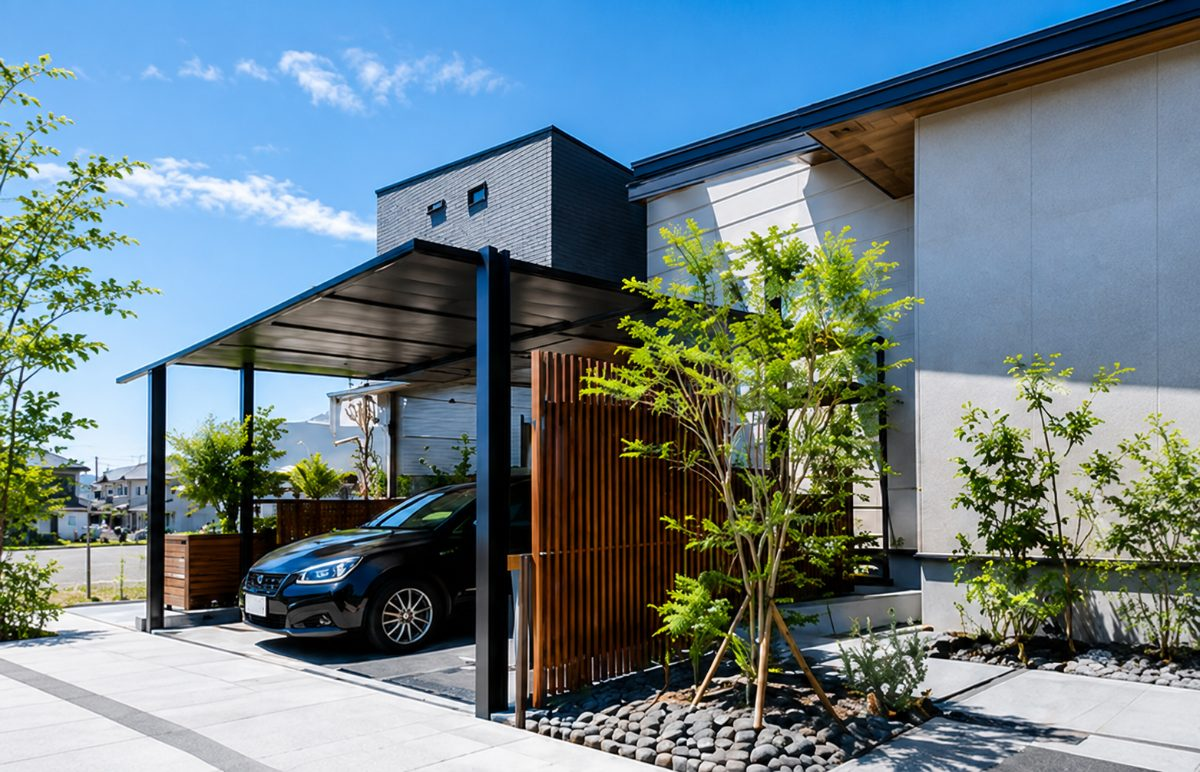
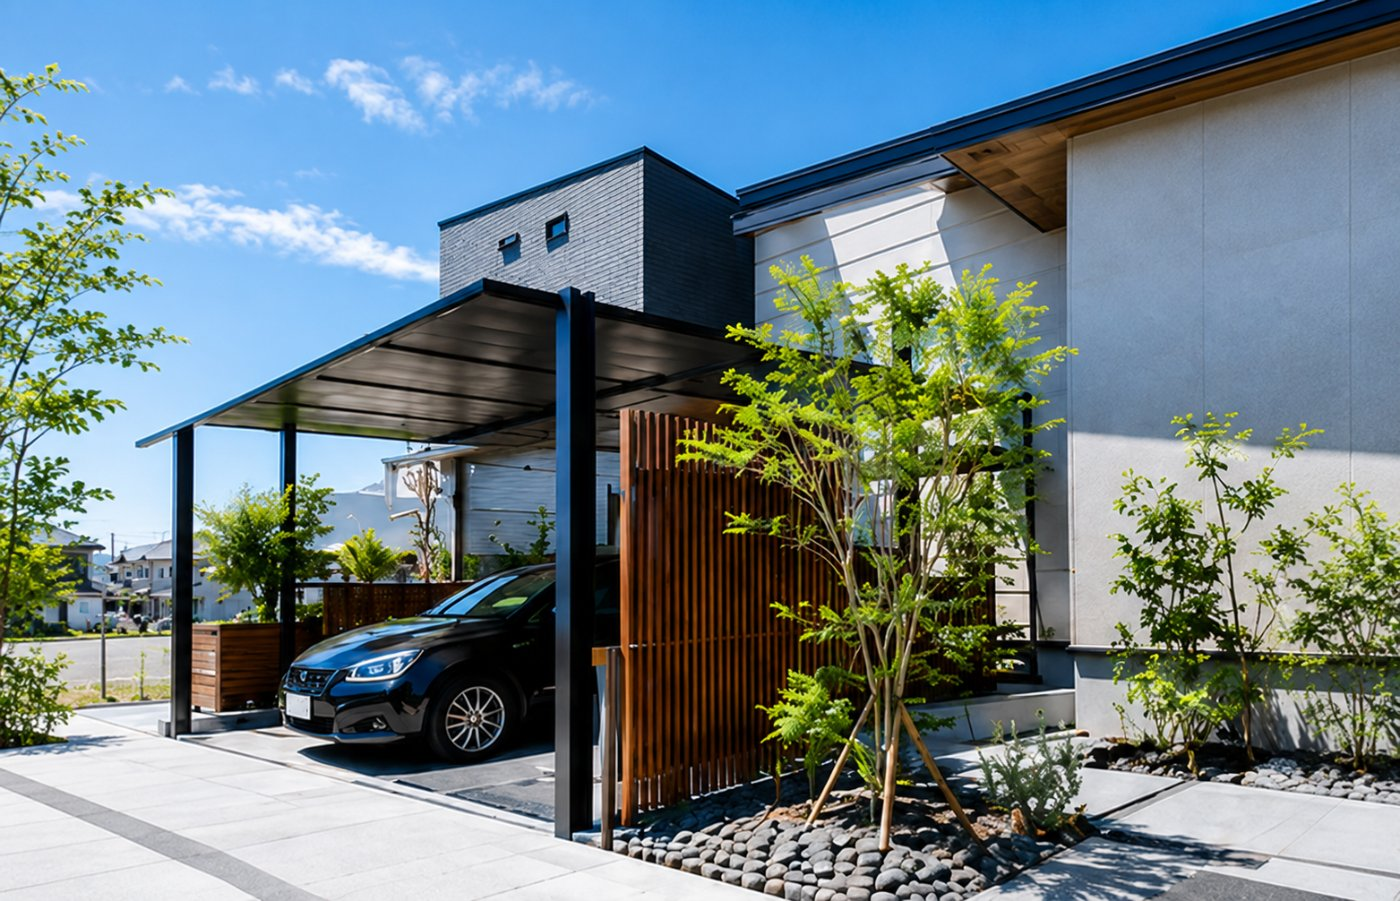
Add files via upload

diff --git a/index.html b/index.html
@@ -6,7 +6,6 @@
 <script src="./support.js"></script>
 </head>
 <body>
-<template id="__bundler_thumbnail"><svg xmlns="http://www.w3.org/2000/svg" viewBox="0 0 100 100"><rect width="100" height="100" fill="#EFE9F8"/><circle cx="50" cy="42" r="20" fill="#8E72C9"/><text x="50" y="50" font-size="22" font-family="sans-serif" font-weight="800" fill="#fff" text-anchor="middle">一</text><text x="50" y="82" font-size="12" font-family="sans-serif" font-weight="700" fill="#1F3A5C" text-anchor="middle">一蓮建設</text></svg></template>
 <x-dc>
 <helmet>
 <link rel="preconnect" href="https://fonts.googleapis.com">
@@ -38,6 +37,7 @@
   .reveal.in { opacity: 1; transform: none; }
   .svc-card:hover .svc-arrow { transform: translate(4px,-4px); }
   .svc-card:hover { transform: translateY(-6px); }
+  .voices-track::-webkit-scrollbar { display: none; width: 0; height: 0; }
 </style>
 </helmet>
 
@@ -123,12 +123,14 @@
 
       <div style="position:relative; align-self:center; padding:14px 0 66px;">
         <!-- window 1 (main) -->
-        <div style="position:relative; z-index:3; width:86%; margin-left:auto; border-radius:24px; overflow:hidden; box-shadow:0 26px 56px -22px rgba(31,58,92,.42); border:4px solid #fff; transform:rotate(1.8deg);">
-          <img src="./crew.jpg" alt="現場スタッフ" style="width:100%; aspect-ratio:4/3.8; object-fit:cover; object-position:50% 40%; display:block;">
+        <div style="position:relative; z-index:3; width:90%; margin-left:auto; aspect-ratio:1/1; border-radius:24px; overflow:hidden; box-shadow:0 26px 56px -22px rgba(31,58,92,.42); border:4px solid #fff; transform:rotate(1.8deg);">
+          <img ref="{{ frame1aRef }}" src="./gaikou1.jpg" alt="施工写真" style="position:absolute; inset:0; width:100%; height:100%; object-fit:cover; transition:opacity 1.1s ease; opacity:1;">
+          <img ref="{{ frame1bRef }}" src="./gaikou2.jpg" alt="施工写真" style="position:absolute; inset:0; width:100%; height:100%; object-fit:cover; transition:opacity 1.1s ease; opacity:0;">
         </div>
-        <!-- window 2 (overlap, bottom-left) -->
-        <div style="position:absolute; z-index:5; left:-7%; bottom:-8px; width:47%; border-radius:20px; overflow:hidden; box-shadow:0 22px 44px -18px rgba(31,58,92,.4); border:4px solid #fff; transform:rotate(-4.5deg);">
-          <img src="./hero-town.jpg" alt="まちの風景" style="width:100%; aspect-ratio:4/3.5; object-fit:cover; object-position:50% 56%; display:block;">
+        <!-- window 2 (front, overlap bottom-left) -->
+        <div style="position:absolute; z-index:5; left:-18%; bottom:-48px; width:60%; aspect-ratio:5/4; border-radius:20px; overflow:hidden; box-shadow:0 22px 44px -18px rgba(31,58,92,.4); border:4px solid #fff; transform:rotate(-4.5deg);">
+          <img ref="{{ frame2aRef }}" src="./gaikou5.jpg" alt="施工写真" style="position:absolute; inset:0; width:100%; height:100%; object-fit:cover; transition:opacity 1.1s ease; opacity:1;">
+          <img ref="{{ frame2bRef }}" src="./gaikou3.jpg" alt="施工写真" style="position:absolute; inset:0; width:100%; height:100%; object-fit:cover; transition:opacity 1.1s ease; opacity:0;">
         </div>
         <!-- accents -->
         <div style="position:absolute; z-index:6; top:-18px; left:24%; width:80px; height:80px; border:3px dashed #8E72C9; border-radius:50%; opacity:.7; animation:spinSlow 22s linear infinite reverse;"></div>
@@ -228,16 +230,29 @@
       <div style="font-family:'Space Mono',monospace; font-size:24px; letter-spacing:.2em; color:#8E72C9; margin-bottom:14px;">03 — VOICES</div>
       <h2 style="font-family:'Bricolage Grotesque','Zen Kaku Gothic New',sans-serif; font-weight:800; font-size:clamp(30px,4.4vw,56px); line-height:1.08; margin:0;">お客様の声</h2>
     </div>
-    <div style="display:grid; grid-template-columns:repeat(3,1fr); gap:clamp(16px,2vw,24px);">
-      <sc-for list="{{ voices }}" as="v" hint-placeholder-count="3">
-        <div class="reveal" data-reveal style="display:flex; flex-direction:column; background:#fff; border:1px solid rgba(31,58,92,.1); border-radius:22px; padding:clamp(26px,3vw,36px); box-shadow:0 14px 34px -22px rgba(31,58,92,.5);">
-          <div style="font-family:'Bricolage Grotesque',serif; font-size:56px; line-height:.6; color:{{ v.color }}; margin-bottom:12px;">“</div>
-          <p style="font-size:17px; line-height:1.85; color:#1F3A5C; font-weight:500; margin:0 0 22px; flex:1;">{{ v.body }}</p>
-          <div style="display:flex; align-items:center; gap:13px; padding-top:18px; border-top:1px dashed rgba(31,58,92,.18);">
-            <div style="width:44px; height:44px; border-radius:50%; background:{{ v.color }}; color:#fff; font-family:'Zen Kaku Gothic New',sans-serif; font-weight:900; font-size:18px; display:flex; align-items:center; justify-content:center; flex-shrink:0;">{{ v.initial }}</div>
-            <div>
-              <div style="font-weight:900; font-size:14px; color:#1F3A5C;">{{ v.name }}</div>
-              <div style="font-size:12px; color:#6B7280;">{{ v.role }}</div>
+    <div ref="{{ voicesTrackRef }}" class="voices-track" style="display:flex; gap:clamp(20px,2.5vw,28px); overflow-x:auto; -webkit-overflow-scrolling:touch; padding:4px 4px 20px; scrollbar-width:none; -ms-overflow-style:none;">
+      <sc-for list="{{ voicesLoop }}" as="v" hint-placeholder-count="3">
+        <div class="reveal" data-reveal style="flex:0 0 clamp(560px,72vw,980px); display:flex; flex-direction:column; gap:clamp(20px,2.2vw,28px); background:#fff; border:1px solid rgba(31,58,92,.1); border-radius:22px; padding:clamp(26px,2.8vw,40px); box-shadow:0 14px 34px -22px rgba(31,58,92,.5);">
+          <div style="display:flex; gap:clamp(20px,2.4vw,32px);">
+            <div style="width:clamp(150px,16vw,210px); height:clamp(180px,20vw,240px); border-radius:16px; background:#EEF0F4; display:flex; align-items:center; justify-content:center; color:#A7AEBC; font-size:13px; flex-shrink:0;">お客様の写真</div>
+            <div style="display:flex; flex-direction:column; flex:1; min-width:0;">
+              <div style="font-family:'Bricolage Grotesque',serif; font-size:56px; line-height:.6; color:{{ v.color }}; margin-bottom:12px;">“</div>
+              <p style="font-size:18px; line-height:1.9; color:#1F3A5C; font-weight:500; margin:0 0 20px; flex:1;">{{ v.body }}</p>
+              <div style="padding-top:16px; border-top:1px dashed rgba(31,58,92,.18);">
+                <div style="font-weight:900; font-size:15px; color:#1F3A5C;">{{ v.name }}</div>
+                <div style="font-size:12px; color:#6B7280; margin-top:2px;">{{ v.role }}</div>
+              </div>
+            </div>
+          </div>
+          <div style="display:grid; grid-template-columns:1fr 32px 1fr; align-items:center; gap:10px; padding-top:20px; border-top:1px dashed rgba(31,58,92,.18);">
+            <div style="position:relative;">
+              <div style="width:100%; height:clamp(200px,23vw,290px); border-radius:14px; background:#EEF0F4;"></div>
+              <span style="position:absolute; top:10px; left:10px; background:rgba(31,58,92,.85); color:#fff; font-family:'Space Mono',monospace; font-size:11px; letter-spacing:.1em; padding:4px 11px; border-radius:999px;">BEFORE</span>
+            </div>
+            <div style="font-size:24px; color:{{ v.color }}; text-align:center; font-weight:700;">→</div>
+            <div style="position:relative;">
+              <div style="width:100%; height:clamp(200px,23vw,290px); border-radius:14px; background:#EEF0F4;"></div>
+              <span style="position:absolute; top:10px; left:10px; background:{{ v.color }}; color:#fff; font-family:'Space Mono',monospace; font-size:11px; letter-spacing:.1em; padding:4px 11px; border-radius:999px;">AFTER</span>
             </div>
           </div>
         </div>
@@ -282,10 +297,7 @@
             <span style="font-family:'Zen Kaku Gothic New',sans-serif; font-weight:900; font-size:12px; letter-spacing:.04em;">友だち募集中</span>
           </div>
           <div style="margin-top:6px;">
-            <div style="width:clamp(150px,18vw,200px); height:clamp(150px,18vw,200px); border-radius:10px; background:#06C755; display:flex; flex-direction:column; align-items:center; justify-content:center; gap:10px; color:#fff;">
-              <svg viewBox="0 0 24 24" width="52" height="52" aria-hidden="true"><path fill="#fff" d="M12 3C6.48 3 2 6.62 2 11.08c0 2.55 1.46 4.82 3.75 6.32-.14.5-.63 2.18-.72 2.52-.11.42.16.42.33.31.13-.09 2.1-1.43 2.96-2.02.54.08 1.1.12 1.68.12 5.52 0 10-3.62 10-8.08S17.52 3 12 3z"/></svg>
-              <span style="font-family:'Zen Kaku Gothic New',sans-serif; font-weight:900; font-size:15px; letter-spacing:.05em;">公式LINE</span>
-            </div>
+            <div style="width:clamp(150px,18vw,200px); height:clamp(150px,18vw,200px); border-radius:10px; background:#06C755; display:flex; flex-direction:column; align-items:center; justify-content:center; gap:10px; color:#fff;"><svg viewBox="0 0 24 24" width="52" height="52" aria-hidden="true"><path fill="#fff" d="M12 3C6.48 3 2 6.62 2 11.08c0 2.55 1.46 4.82 3.75 6.32-.14.5-.63 2.18-.72 2.52-.11.42.16.42.33.31.13-.09 2.1-1.43 2.96-2.02.54.08 1.1.12 1.68.12 5.52 0 10-3.62 10-8.08S17.52 3 12 3z"/></svg><span style="font-family:'Zen Kaku Gothic New',sans-serif; font-weight:900; font-size:15px; letter-spacing:.05em;">公式LINE</span></div>
           </div>
           <div style="text-align:center; color:#1F3A5C; font-family:'Space Mono',monospace; font-size:11px; letter-spacing:.14em; margin-top:12px; font-weight:700;">SCAN &amp; ADD ICHIREN</div>
         </div>
@@ -316,16 +328,24 @@ class Component extends DCLogic {
       progressRef: (el) => { this._progress = el; },
       blob1Ref: (el) => { this._blob1 = el; },
       blob2Ref: (el) => { this._blob2 = el; },
+      frame1Ref: (el) => { this._f1 = el; },
+      frame2Ref: (el) => { this._f2 = el; },
+      frame1aRef: (el) => { this._f1a = el; },
+      frame1bRef: (el) => { this._f1b = el; },
+      frame2aRef: (el) => { this._f2a = el; },
+      frame2bRef: (el) => { this._f2b = el; },
+      voicesTrackRef: (el) => { this._vtrack = el; },
       voices: [
-        { color: "#8E72C9", initial: "S", name: "S様", role: "戸建て新築・外構工事", body: "土木の会社さんだけあって基礎がしっかり。仕上がりの美しさはもちろん、雨の日の水はけまで考えて提案してくれて安心して任せられました。" },
-        { color: "#ED88B0", initial: "K", name: "K不動産 様", role: "分譲地の造成・舗装", body: "工程管理が丁寧で、こちらの販売スケジュールに合わせて動いてくれます。仕上がりの評判も良く、継続してお願いしています。" },
-        { color: "#3E7CC2", initial: "T", name: "T様", role: "駐車場・カーポート", body: "見積りの説明が分かりやすく、追加費用もなし。職人さんの対応も気持ちよくて、近所にも勧めたくなる工事でした。" },
+        { color: "#8E72C9", photo: "voice1", photoBefore: "voice1b", photoAfter: "voice1a", initial: "Y", name: "60代　Yご夫妻", role: "舗装・フェンス改修工事", body: "経年劣化で舗装やフェンスが傷んでいたため、以前から信頼していた一蓮建設さんに改修工事を依頼しましたが、工事前の住民への周知がとても丁寧でクレームも一切なく、舗装や排水マスの改善など見えない部分まで現場判断でしっかり対応していただき、事務所の方や現場の皆さんの挨拶も気持ちよく、お願いして本当に良かったと感じています。" },
+        { color: "#ED88B0", photo: "voice2", photoBefore: "voice2b", photoAfter: "voice2a", initial: "A", name: "70代　A様", role: "庭・カーポート整備", body: "古い小屋や樹木の管理、相続への不安をきっかけに一蓮建設さんへ相談し、大切に育ててきた樹木を活かしながら庭やカーポートを整えていただきましたが、完成した庭は周囲からの評判も良く、孫たちの遊び場や家族の憩いの場にもなり、孫の笑顔を見るたびに、お願いして本当に良かったと感じています。" },
+        { color: "#3E7CC2", photo: "voice3", photoBefore: "voice3b", photoAfter: "voice3a", initial: "A", name: "40代　A様", role: "石積み改修・耐震工事", body: "実家の石積みにヒビが入り、地震による倒壊の不安や高額な見積もりに悩んでいたところ、一蓮建設さんを紹介され、木村社長の「大丈夫ですよ、何とかなりますよ」という言葉に安心し、年末の忙しい時期にも関わらず、こちらの希望に寄り添いながら他社より大幅に抑えた金額で対応していただき、近隣への配慮も含めて無事に工事が完了し、母も安心できるようになり本当に感謝しています。" },
       ],
+      get voicesLoop() { return this.voices.concat(this.voices); },
       services: [
-        { no: "01", slot: "svc1", img: "./crew.jpg", ph: "土木イメージ", title: "土木部", en: "CIVIL ENGINEERING", bg: "#EBE6F7", url: "https://ichirenfudosan.com/company.html", desc: "土地を切り盛りし、宅地や敷地の形を整える。すべての工事の出発点となる、まちづくりの基礎です。" },
+        { no: "01", slot: "svc1", img: "./gaikou1.jpg", ph: "土木イメージ", title: "土木部", en: "CIVIL ENGINEERING", bg: "#EBE6F7", url: "https://ichirenfudosan.com/company.html", desc: "土地を切り盛りし、宅地や敷地の形を整える。すべての工事の出発点となる、まちづくりの基礎です。" },
         { no: "02", slot: "svc2", img: "./ext-hero.jpg", ph: "外構イメージ", title: "エクステリア事業部", en: "EXTERIOR WORKS", bg: "#FBE4ED", url: "exterior.html", desc: "門・塀・アプローチから植栽まで。建物の“顔”となる外まわりを、機能と美しさの両面で仕上げます。" },
-        { no: "03", slot: "svc3", img: "./hero-town.jpg", ph: "不動産イメージ", title: "不動産事業部", en: "REAL ESTATE", bg: "#FBEADC", url: "https://ichirenfudosan.com/pc.html", desc: "土地・建物の売買や活用のご相談に対応。施工で培った知見を活かし、最適な土地活用をご提案します。" },
-        { no: "04", slot: "svc4", img: "./hero-town-feather.jpg", ph: "テラスハウスイメージ", title: "テラスハウス事業部", en: "TERRACE HOUSE", bg: "#DEF1EA", url: "https://ichirenfudosan.com/terrace.html", desc: "設計から施工・管理までを一貫対応。暮らしやすさにこだわり、住む人に長く愛されるテラスハウスをつくります。" },
+        { no: "03", slot: "svc3", img: "./gaikou5.jpg", ph: "不動産イメージ", title: "不動産事業部", en: "REAL ESTATE", bg: "#FBEADC", url: "https://ichirenfudosan.com/pc.html", desc: "土地・建物の売買や活用のご相談に対応。施工で培った知見を活かし、最適な土地活用をご提案します。" },
+        { no: "04", slot: "svc4", img: "./gaikou3.jpg", ph: "テラスハウスイメージ", title: "テラスハウス事業部", en: "TERRACE HOUSE", bg: "#DEF1EA", url: "https://ichirenfudosan.com/terrace.html", desc: "設計から施工・管理までを一貫対応。暮らしやすさにこだわり、住む人に長く愛されるテラスハウスをつくります。" },
       ],
       strengths: [
         { no: "01", color: "#8E72C9", title: "未経験から、一人前へ", desc: "入社後は先輩がマンツーマンでサポート。工具の名前から重機の操作まで、段階を踏んでしっかり身につけられます。" },
@@ -349,6 +369,33 @@ class Component extends DCLogic {
     requestAnimationFrame(() => {
       document.querySelectorAll("[data-reveal]").forEach((el) => io.observe(el));
     });
+    // random rotating hero photos (true crossfade, 2 layers per frame)
+    this._gallery = ["./gaikou1.jpg","./gaikou2.jpg","./gaikou3.jpg","./gaikou4.jpg","./gaikou5.jpg","./gaikou6.jpg"];
+    const rand = (arr) => arr[Math.floor(Math.random() * arr.length)];
+    this._hframes = [];
+    if (this._f1a && this._f1b) this._hframes.push({ a: this._f1a, b: this._f1b, showA: true, cur: null });
+    if (this._f2a && this._f2b) this._hframes.push({ a: this._f2a, b: this._f2b, showA: true, cur: null });
+    // pick an image not currently shown in ANY frame
+    const pickFor = () => {
+      const taken = this._hframes.map((f) => f.cur).filter(Boolean);
+      const avail = this._gallery.filter((g) => !taken.includes(g));
+      return rand(avail.length ? avail : this._gallery);
+    };
+    // seed initial distinct images
+    this._hframes.forEach((fr) => { const s = pickFor(); fr.cur = s; fr.a.src = s; fr.a.style.opacity = "1"; fr.b.style.opacity = "0"; });
+    const advance = (fr) => {
+      const s = pickFor();
+      fr.cur = s;
+      const nextEl = fr.showA ? fr.b : fr.a;
+      const curEl = fr.showA ? fr.a : fr.b;
+      nextEl.src = s;
+      const go = () => { nextEl.style.opacity = "1"; curEl.style.opacity = "0"; fr.showA = !fr.showA; };
+      if (nextEl.complete) go(); else nextEl.onload = go;
+    };
+    this._rotTimer = setInterval(() => {
+      if (this._hframes[0]) advance(this._hframes[0]);
+      if (this._hframes[1]) setTimeout(() => advance(this._hframes[1]), 900);
+    }, 6000);
     this._onScroll = () => {
       const y = window.scrollY || 0;
       const h = document.documentElement.scrollHeight - window.innerHeight;
@@ -358,9 +405,29 @@ class Component extends DCLogic {
     };
     window.addEventListener("scroll", this._onScroll, { passive: true });
     this._onScroll();
+    // auto marquee for voices (right -> left), pause on hover/drag
+    const track = this._vtrack;
+    if (track) {
+      let paused = false;
+      track.addEventListener("mouseenter", () => { paused = true; });
+      track.addEventListener("mouseleave", () => { paused = false; });
+      track.addEventListener("pointerdown", () => { paused = true; });
+      window.addEventListener("pointerup", () => { paused = false; });
+      const step = () => {
+        if (!paused && track.scrollWidth > track.clientWidth) {
+          track.scrollLeft += 0.5;
+          const half = track.scrollWidth / 2;
+          if (track.scrollLeft >= half) track.scrollLeft -= half;
+        }
+        this._vraf = requestAnimationFrame(step);
+      };
+      this._vraf = requestAnimationFrame(step);
+    }
   }
   componentWillUnmount() {
     if (this._onScroll) window.removeEventListener("scroll", this._onScroll);
+    if (this._rotTimer) clearInterval(this._rotTimer);
+    if (this._vraf) cancelAnimationFrame(this._vraf);
   }
 }
 </script>

diff --git a/exterior.html b/exterior.html
@@ -6,7 +6,6 @@
 <script src="./support.js"></script>
 </head>
 <body>
-<template id="__bundler_thumbnail"><svg xmlns="http://www.w3.org/2000/svg" viewBox="0 0 100 100"><rect width="100" height="100" fill="#FBE4ED"/><circle cx="50" cy="42" r="20" fill="#df5125"/><text x="50" y="50" font-size="20" font-family="sans-serif" font-weight="800" fill="#fff" text-anchor="middle">外</text><text x="50" y="82" font-size="11" font-family="sans-serif" font-weight="700" fill="#1F3A5C" text-anchor="middle">エクステリア</text></svg></template>
 <x-dc>
 <helmet>
 <link rel="preconnect" href="https://fonts.googleapis.com">
@@ -191,17 +190,17 @@ class Component extends DCLogic {
   renderVals() {
     return {
       tiles: [
-        { label: "庭の草刈り", slot: "ex1", color: "#5BB85B", icon: "🌱", img: "./crew2.jpg" },
-        { label: "芝張り・防草シート", slot: "ex2", color: "#3DA35D", icon: "🌿", img: "./hero-town.jpg" },
-        { label: "土間Co打ち", slot: "ex3", color: "#2C8AC9", icon: "🛠", img: "./crew.jpg" },
-        { label: "アスファルト舗装", slot: "ex4", color: "#1F5DA0", icon: "🛣", img: "./hero-town.jpg" },
-        { label: "雨水排水（側溝）工事", slot: "ex5", color: "#2C8AC9", icon: "💧", img: "./crew.jpg" },
-        { label: "カーポート", slot: "ex6", color: "#EE6A2C", icon: "🚗", img: "./crew2.jpg" },
-        { label: "駐車場整備", slot: "ex7", color: "#7C5BD0", icon: "P", img: "./hero-town.jpg" },
-        { label: "ブロック積み", slot: "ex8", color: "#EE9A2C", icon: "🧱", img: "./crew.jpg" },
-        { label: "フェンス", slot: "ex9", color: "#3DA35D", icon: "🚧", img: "./crew2.jpg" },
-        { label: "外壁掃除", slot: "ex10", color: "#EE6A2C", icon: "🧽", img: "./hero-town.jpg" },
-        { label: "震災予防工事（CB積直し・擁壁やり替え等）", slot: "ex12", color: "#3DA35D", icon: "🛡", gc: "span 2", img: "./crew2.jpg" },
+        { label: "庭の草刈り", slot: "ex1", color: "#5BB85B", icon: "🌱", img: "./crew2.png" },
+        { label: "芝張り・防草シート", slot: "ex2", color: "#3DA35D", icon: "🌿", img: "./hero-town.png" },
+        { label: "土間Co打ち", slot: "ex3", color: "#2C8AC9", icon: "🛠", img: "./crew.png" },
+        { label: "アスファルト舗装", slot: "ex4", color: "#1F5DA0", icon: "🛣", img: "./hero-town.png" },
+        { label: "雨水排水（側溝）工事", slot: "ex5", color: "#2C8AC9", icon: "💧", img: "./crew.png" },
+        { label: "カーポート", slot: "ex6", color: "#EE6A2C", icon: "🚗", img: "./crew2.png" },
+        { label: "駐車場整備", slot: "ex7", color: "#7C5BD0", icon: "P", img: "./hero-town.png" },
+        { label: "ブロック積み", slot: "ex8", color: "#EE9A2C", icon: "🧱", img: "./crew.png" },
+        { label: "フェンス", slot: "ex9", color: "#3DA35D", icon: "🚧", img: "./crew2.png" },
+        { label: "外壁掃除", slot: "ex10", color: "#EE6A2C", icon: "🧽", img: "./hero-town.png" },
+        { label: "震災予防工事（CB積直し・擁壁やり替え等）", slot: "ex12", color: "#3DA35D", icon: "🛡", gc: "span 2", img: "./crew2.png" },
       ],
       reasons: [
         { label: "豊富な実績", color: "#EE9A2C" },
@@ -210,10 +209,10 @@ class Component extends DCLogic {
         { label: "自社施工による高品質", color: "#3DA35D" },
       ],
       cases: [
-        { label: "新築外構一式工事", slot: "case1", img: "./crew2.jpg" },
-        { label: "カーポート設置工事", slot: "case2", img: "./hero-town.jpg" },
-        { label: "人工芝・造りフォーム", slot: "case3", img: "./crew.jpg" },
-        { label: "ブロック塀・フェンス工事", slot: "case4", img: "./crew2.jpg" },
+        { label: "新築外構一式工事", slot: "case1", img: "./crew2.png" },
+        { label: "カーポート設置工事", slot: "case2", img: "./hero-town.png" },
+        { label: "人工芝・造りフォーム", slot: "case3", img: "./crew.png" },
+        { label: "ブロック塀・フェンス工事", slot: "case4", img: "./crew2.png" },
       ],
       steps: [
         { no: "01", title: "お問い合わせ", desc: "お電話・メールにてお気軽にご相談ください。" },

diff --git a/recruit.html b/recruit.html
@@ -137,7 +137,6 @@
 </style>
 </head>
 <body>
-<template id="__bundler_thumbnail"><svg xmlns="http://www.w3.org/2000/svg" viewBox="0 0 100 100"><rect width="100" height="100" fill="#f5f3ee"/><circle cx="50" cy="42" r="20" fill="#2f74b8"/><text x="50" y="50" font-size="20" font-family="sans-serif" font-weight="800" fill="#fff" text-anchor="middle">求</text><text x="50" y="82" font-size="12" font-family="sans-serif" font-weight="700" fill="#16181d" text-anchor="middle">採用情報</text></svg></template>
 <div class="wrap">
   <div class="spectrum" aria-hidden="true"><i></i><i></i><i></i></div>
 
@@ -156,7 +155,7 @@
   <div class="cards">
 
     <!-- 外構職人 -->
-    <a class="card rv" href="mailto:office.ichiren@gmail.com?subject=外構職人（土木・外構）の求人について" style="--c:#df5125;--cd:#bb3d15;--on:#fff">
+    <a class="card rv" href="mailto:office.ichiren@gmail.com?subject=職人（土木・外構）の求人について" style="--c:#df5125;--cd:#bb3d15;--on:#fff">
       <div class="bar"></div>
       <div class="body">
         <div class="crow"><span class="no">01</span><span class="cat">外構・エクステリア</span><span class="arrow">→</span></div>
